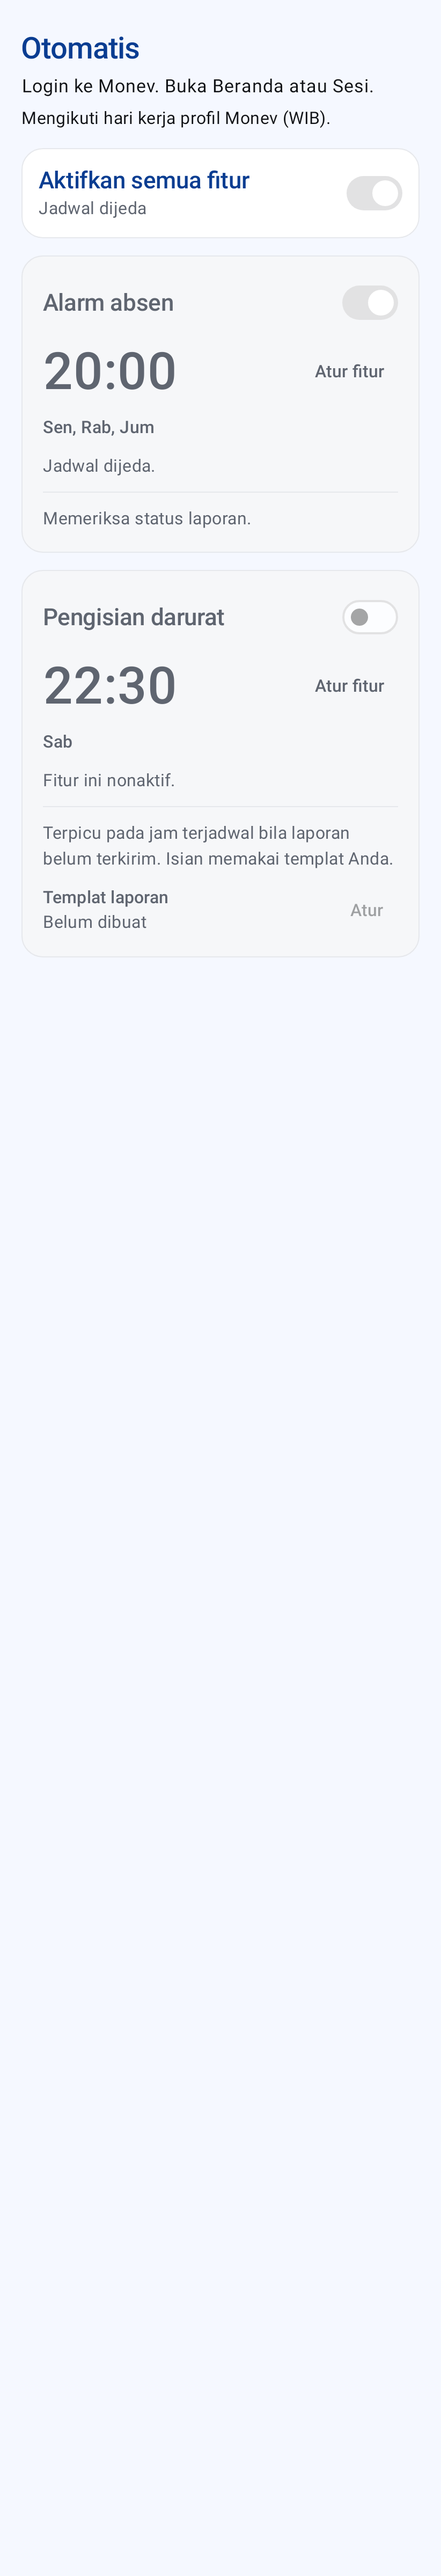
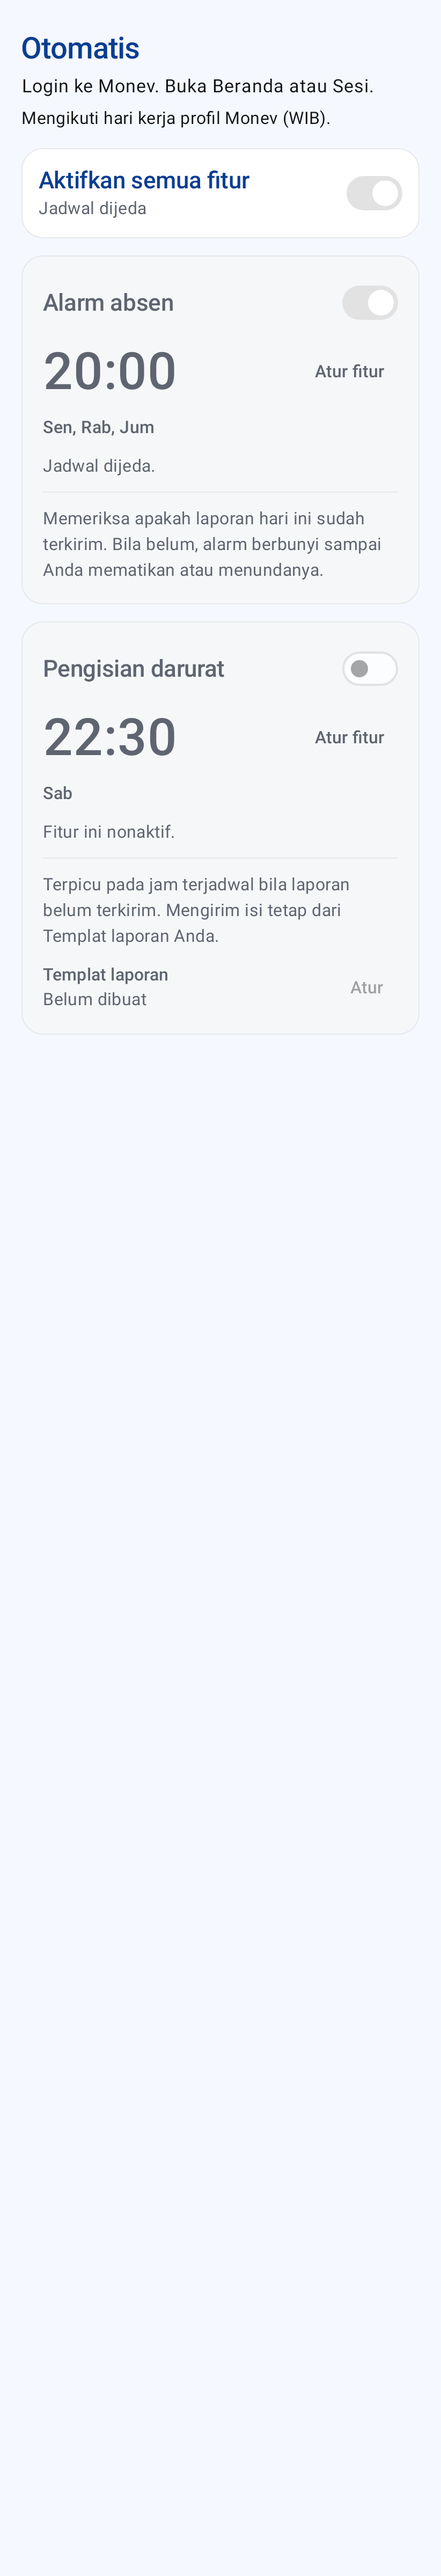
Redesign Jadwal berikutnya card and clarify Alarm absen and Templat copy

Changed region(s): [[0.0912, 0.1875, 0.7908, 0.4062], [0.7603, 0.1875, 0.8516, 0.2812], [0.6083, 0.1875, 0.6387, 0.2188]]

diff --git a/app/src/main/java/id/ohmymonev/android/ui/HomeTab.kt b/app/src/main/java/id/ohmymonev/android/ui/HomeTab.kt
@@ -937,27 +937,68 @@ private fun hasPermission(context: Context, permission: String): Boolean =
 internal fun ScheduleStatus(state: AlarmScheduler.ArmedState?, onCheck: () -> Unit, checking: Boolean = false) {
     Column(
         modifier = Modifier.fillMaxWidth().testTag("schedule-status"),
-        verticalArrangement = Arrangement.spacedBy(8.dp),
+        verticalArrangement = Arrangement.spacedBy(10.dp),
     ) {
-        Text("Jadwal fitur berikutnya", fontSize = 20.sp, fontWeight = FontWeight.SemiBold)
-        Text(
-            when {
-                state == null -> "Memuat jadwal…"
-                state.nextFireISO == null -> state.source
-                else -> "${state.source} · ${formatFire(state.nextFireISO)} WIB"
-            },
-            fontSize = 20.sp,
-            lineHeight = 28.sp,
-        )
-        if (state?.nextFireISO != null) {
+        Row(
+            modifier = Modifier.fillMaxWidth(),
+            verticalAlignment = Alignment.CenterVertically,
+        ) {
             Text(
-                if (state.armed) "Alarm dijadwalkan" else "Alarm belum terkonfirmasi",
-                fontSize = 18.sp, lineHeight = 26.sp, color = MaterialTheme.colorScheme.onSurfaceVariant,
+                "Jadwal berikutnya",
+                modifier = Modifier.weight(1f),
+                style = MaterialTheme.typography.titleLarge,
+                color = MaterialTheme.colorScheme.primary,
             )
+            TextButton(enabled = !checking, onClick = loggedClick("HomeTab:816", onCheck)) {
+                Text(if (checking) "Memeriksa…" else "Periksa")
+            }
         }
-        state?.lastError?.let { Text(it, fontSize = 18.sp, lineHeight = 26.sp, color = MaterialTheme.colorScheme.error) }
-        TextButton(enabled = !checking, onClick = loggedClick("HomeTab:816", onCheck)) {
-            Text(if (checking) "Memeriksa…" else "Periksa jadwal", fontSize = 18.sp)
+        when {
+            state == null -> Text(
+                "Memuat jadwal…",
+                style = MaterialTheme.typography.bodyMedium,
+                color = MaterialTheme.colorScheme.onSurfaceVariant,
+            )
+            state.nextFireISO == null -> Text(
+                state.source,
+                style = MaterialTheme.typography.bodyLarge,
+                color = MaterialTheme.colorScheme.onSurfaceVariant,
+            )
+            else -> {
+                Row(
+                    modifier = Modifier.fillMaxWidth(),
+                    verticalAlignment = Alignment.CenterVertically,
+                    horizontalArrangement = Arrangement.spacedBy(8.dp),
+                ) {
+                    Text(
+                        state.source,
+                        style = MaterialTheme.typography.titleMedium,
+                        fontWeight = FontWeight.SemiBold,
+                        color = MaterialTheme.colorScheme.onSurface,
+                    )
+                    Surface(
+                        shape = RoundedCornerShape(8.dp),
+                        color = if (state.armed) MaterialTheme.colorScheme.primaryContainer
+                        else MaterialTheme.colorScheme.surfaceVariant,
+                    ) {
+                        Text(
+                            if (state.armed) "Aktif" else "Belum aktif",
+                            modifier = Modifier.padding(horizontal = 8.dp, vertical = 2.dp),
+                            style = MaterialTheme.typography.labelMedium,
+                            color = if (state.armed) MaterialTheme.colorScheme.onPrimaryContainer
+                            else MaterialTheme.colorScheme.onSurfaceVariant,
+                        )
+                    }
+                }
+                Text(
+                    "${formatFire(state.nextFireISO)} WIB",
+                    style = MaterialTheme.typography.bodyLarge,
+                    color = MaterialTheme.colorScheme.onSurfaceVariant,
+                )
+            }
+        }
+        state?.lastError?.let {
+            Text(it, style = MaterialTheme.typography.bodyMedium, color = MaterialTheme.colorScheme.error)
         }
     }
 }

diff --git a/app/src/main/java/id/ohmymonev/android/ui/ScheduleTab.kt b/app/src/main/java/id/ohmymonev/android/ui/ScheduleTab.kt
@@ -259,7 +259,7 @@ fun ScheduleTab(modifier: Modifier = Modifier) {
             controlsEnabled = ready && current.masterEnabled && !modelBusy,
             effective = ready && current.reminderEnabled && current.masterEnabled,
             paused = !ready && current.masterEnabled && current.reminderEnabled,
-            detail = "Memeriksa status laporan.",
+            detail = "Memeriksa apakah laporan hari ini sudah terkirim. Bila belum, alarm berbunyi sampai Anda mematikan atau menundanya.",
             actionLabel = "Suara dan getar",
             onAction = {
                 id.ohmymonev.android.schedule.ReminderNotifications(context).openSettings()
@@ -279,7 +279,7 @@ fun ScheduleTab(modifier: Modifier = Modifier) {
             paused = !ready && current.masterEnabled && current.escalationEnabled,
             detail = when (current.escalationSource) {
                 ScheduleSettings.ContentSource.TEMPLATE ->
-                    "Terpicu pada jam terjadwal bila laporan belum terkirim. Isian memakai templat Anda."
+                    "Terpicu pada jam terjadwal bila laporan belum terkirim. Mengirim isi tetap dari Templat laporan Anda."
                 ScheduleSettings.ContentSource.AUTOMATIC ->
                     "Terpicu pada jam terjadwal bila belum terkirim. Isian melanjutkan laporan hari kerja sebelumnya (eksperimental)."
             },
@@ -587,7 +587,8 @@ internal fun AlarmEditor(
                     ) { source = ScheduleSettings.ContentSource.AUTOMATIC }
                     Text(
                         when (source) {
-                            ScheduleSettings.ContentSource.TEMPLATE -> "Memakai templat Anda."
+                            ScheduleSettings.ContentSource.TEMPLATE ->
+                                "Mengisi dan mengirim teks tetap yang sudah Anda tulis sendiri di Templat laporan. Paling aman karena isi tidak berubah."
                             ScheduleSettings.ContentSource.AUTOMATIC ->
                                 "Menulis ulang laporan hari kerja sebelumnya dengan kalimat berbeda. Berisiko."
                         },

diff --git a/app/src/test/java/id/ohmymonev/android/UiRenderTest.kt b/app/src/test/java/id/ohmymonev/android/UiRenderTest.kt
@@ -253,7 +253,7 @@ class UiRenderTest {
     @Test @Config(qualifiers = "w360dp-h3200dp-xhdpi")
     fun scheduleDisabledLargeText() = capture("forge-schedule-disabled-large-text", "Aktifkan semua fitur", 1.3f, captureCards = true, masterEnabled = false) { ScheduleTab() }
 
-    @Test fun configuredSchedule() = capture("forge-schedule-status", "Jadwal fitur berikutnya", captureTag = "schedule-status") {
+    @Test fun configuredSchedule() = capture("forge-schedule-status", "Jadwal berikutnya", captureTag = "schedule-status") {
         id.ohmymonev.android.ui.ScheduleStatus(
             id.ohmymonev.android.schedule.AlarmScheduler.ArmedState(true, "2026-11-07T15:30:00Z", "Pengisian darurat"), {})
     }
